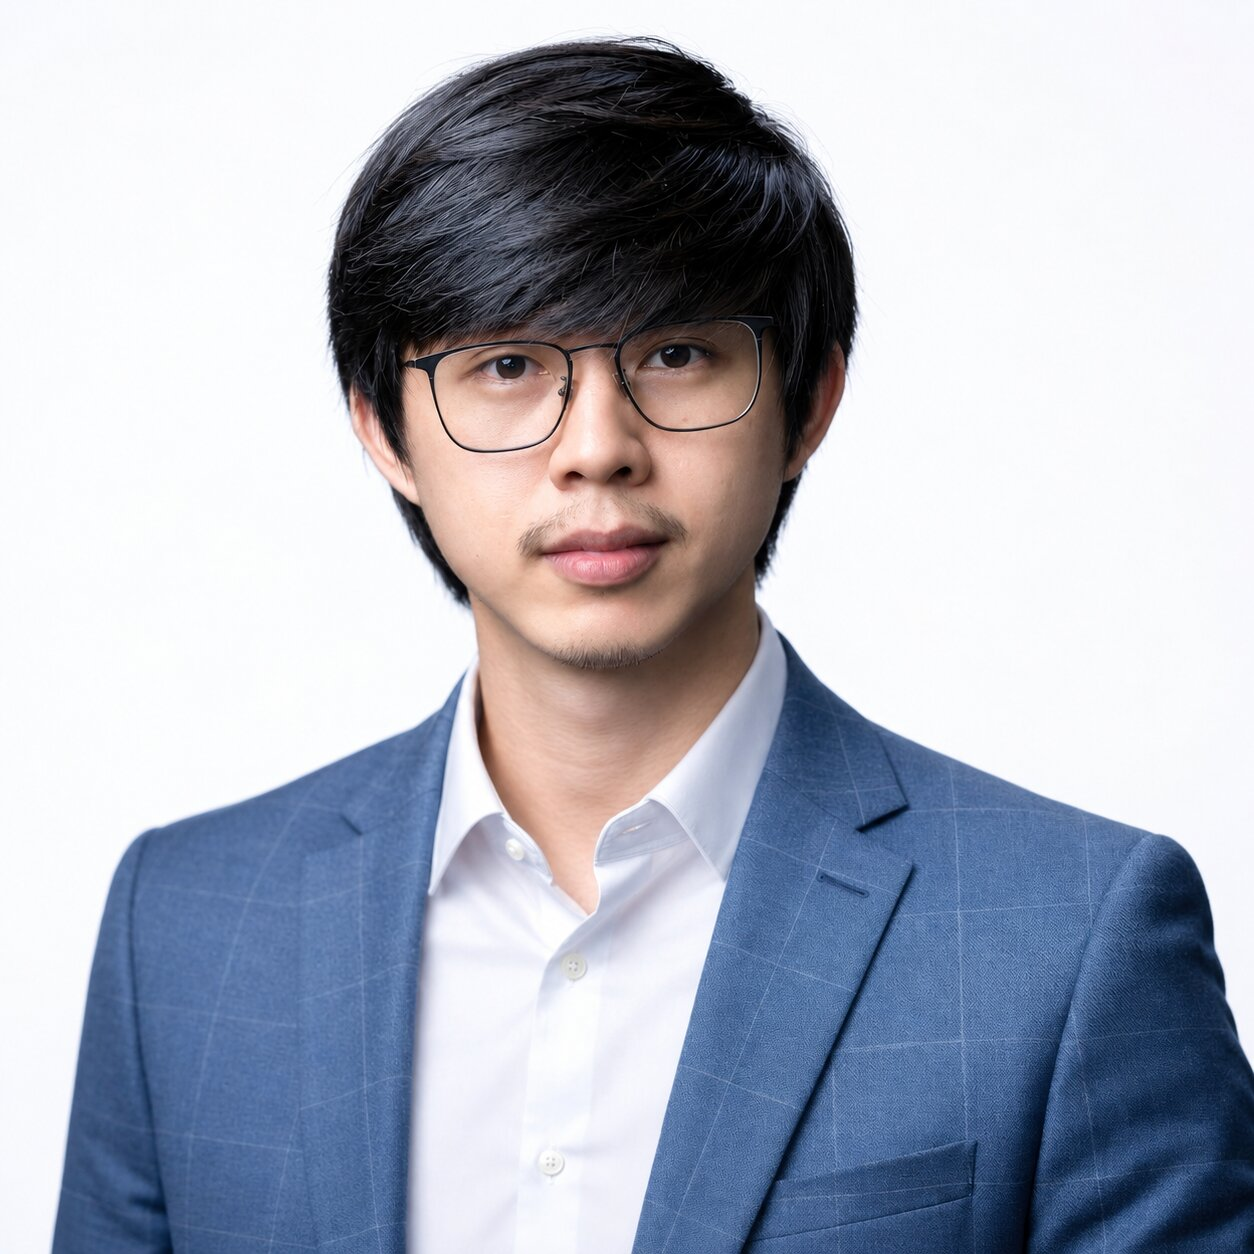
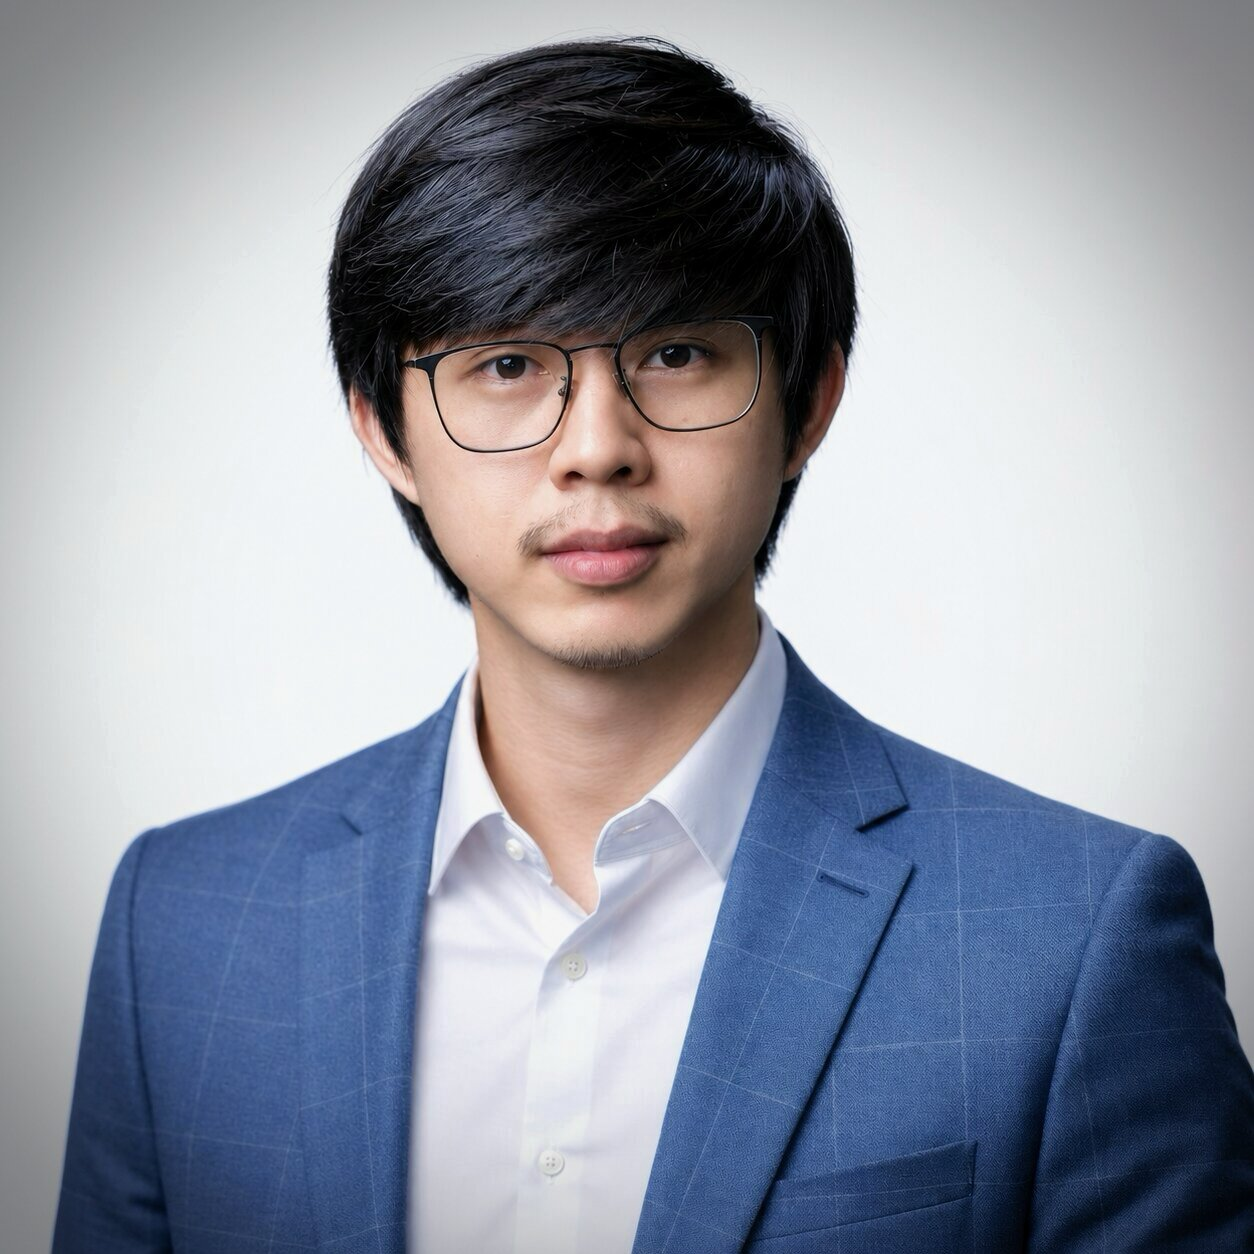
Add clinical AI interest and clean page headings

diff --git a/index.html b/index.html
@@ -11,7 +11,7 @@ description: Portfolio and research profile for Sovorn Chea.
     <p class="portfolio-kicker">AI systems builder / research-oriented engineer</p>
     <h1 id="portfolio-title">Sovorn Chea</h1>
     <p class="portfolio-lede">
-      Building and studying agentic AI systems, context engineering workflows, and applied machine-learning systems that need memory, reliability, and human oversight.
+      Building and studying agentic AI systems, clinical AI reliability, context engineering workflows, and applied machine-learning systems that need memory, reliability, and human oversight.
     </p>
     <p class="portfolio-note">
       M.E. in Computer Science and Technology, B.S. in Management of Information Systems, and founder of ChhlatBot, an AI workflow automation platform for Cambodia businesses.
@@ -50,6 +50,10 @@ description: Portfolio and research profile for Sovorn Chea.
     <article>
       <h3>Research-trained ML systems</h3>
       <p>IEEE-published computer-vision research, reproducible experiments, benchmarking, data preparation, and model evaluation.</p>
+    </article>
+    <article>
+      <h3>Clinical AI reliability</h3>
+      <p>Research interest in safe decision-support systems, competence-aware memory, deferral, and human oversight in high-stakes settings.</p>
     </article>
   </div>
 </section>

diff --git a/_tabs/research.md b/_tabs/research.md
@@ -8,8 +8,6 @@ description: Research interests and reading direction.
 
 <link rel="stylesheet" href="{{ '/assets/css/portfolio.css' | relative_url }}">
 
-# Research
-
 The research direction is system-building work in agentic AI: design useful architectures, implement them, evaluate them, and turn them into reusable methods or benchmarks.
 
 ## Focus Areas
@@ -30,6 +28,10 @@ The research direction is system-building work in agentic AI: design useful arch
   <article>
     <h3>AI automation</h3>
     <p>End-to-end LLM-powered workflows with human escalation, operational constraints, and measurable reliability.</p>
+  </article>
+  <article>
+    <h3>Clinical AI reliability</h3>
+    <p>Clinical decision-support systems, competence-aware memory, calibrated support, deferral, and human oversight in high-stakes settings.</p>
   </article>
 </div>
 
@@ -57,4 +59,4 @@ Research notes and paper reviews will be published through [Writing]({{ '/writin
 
 - Research collaboration around agent memory, context engineering, and AI automation.
 - Academic conversations in AI/ML, agentic AI, clinical AI reliability, and learning systems.
-- Applied research, AI systems, AI engineering, and forward-deployed AI roles.
+- Applied research, clinical AI reliability, AI systems, AI engineering, and forward-deployed AI roles.

diff --git a/_tabs/cv.md b/_tabs/cv.md
@@ -8,8 +8,6 @@ description: Academic and industry profile.
 
 <link rel="stylesheet" href="{{ '/assets/css/portfolio.css' | relative_url }}">
 
-# CV
-
 Compact web CV for academic, AI systems, and remote-work readers.
 
 ## Profile
@@ -68,6 +66,7 @@ Master's thesis and IEEE-published research on fast, lightweight automatic shipp
 - Agentic AI: agent loops, planning, tool use, and autonomous workflows.
 - Agentic memory: episodic, semantic, working, and decision memory.
 - Context engineering for LLMs and tool-using agents.
+- Clinical AI reliability and safe decision-support systems.
 - AI automation and human-in-the-loop workflow systems.
 - Applied ML systems and reproducible evaluation.
 
@@ -87,7 +86,7 @@ Master's thesis and IEEE-published research on fast, lightweight automatic shipp
 
 ## Open To
 
-Academic conversations, applied research roles, AI/ML engineering roles, forward-deployed AI engineering roles, and remote opportunities that align with agent systems or machine-learning infrastructure.
+Academic conversations, clinical AI reliability research, applied research roles, AI/ML engineering roles, forward-deployed AI engineering roles, and remote opportunities that align with agent systems or machine-learning infrastructure.
 
 ## Links
 

diff --git a/_tabs/contact.md b/_tabs/contact.md
@@ -8,8 +8,6 @@ description: Contact Sovorn Chea.
 
 <link rel="stylesheet" href="{{ '/assets/css/portfolio.css' | relative_url }}">
 
-# Contact
-
 For research, collaboration, hiring, or remote-work conversations:
 
 - Email: [[email redacted]](mailto:[email redacted])
@@ -18,4 +16,4 @@ For research, collaboration, hiring, or remote-work conversations:
 - ChhlatBot: [chhlatbot.com](https://chhlatbot.com)
 - X/Twitter: [sovornjg](https://twitter.com/sovornjg)
 
-Open to conversations around doctoral research supervision, AI systems research, applied AI engineering, forward-deployed AI work, and remote opportunities.
+Open to conversations around doctoral research supervision, clinical AI reliability, AI systems research, applied AI engineering, forward-deployed AI work, and remote opportunities.

diff --git a/_posts/2026-05-22-welcome-to-sovorn-docs.md b/_posts/2026-05-22-welcome-to-sovorn-docs.md
@@ -8,7 +8,7 @@ description: A place to document research notes, project logs, and work on AI ag
 
 ## Hello
 
-This research notebook and portfolio collects research notes, project logs, paper reviews, and technical reflections around agentic AI, context engineering, AI automation, and applied machine-learning systems.
+This research notebook and portfolio collects research notes, project logs, paper reviews, and technical reflections around agentic AI, clinical AI reliability, context engineering, AI automation, and applied machine-learning systems.
 
 ### About Me
 
@@ -16,6 +16,7 @@ This research notebook and portfolio collects research notes, project logs, pape
 
 - **Agentic AI** — autonomous agents, agent loops, planning, and tool use
 - **Agentic Memory** — episodic, semantic, working, and decision memory for AI agents
+- **Clinical AI Reliability** — safe decision support, deferral, and human oversight in high-stakes settings
 - **Context Engineering** — structuring, compressing, and managing context for LLMs and agents
 - **AI Automation** — end-to-end LLM-powered workflows with human oversight
 

diff --git a/_tabs/about.md b/_tabs/about.md
@@ -27,7 +27,7 @@ Key interests:
 - Episodic, semantic, working, and decision memory for AI agents.
 - Context selection, compression, retrieval, and state representation.
 - Human-in-the-loop automation for messy real-world workflows.
-- Safe self-improvement and deferral in clinical or high-stakes decision support.
+- Clinical AI reliability, safe self-improvement, and deferral in high-stakes decision support.
 
 ## Background
 

diff --git a/_tabs/projects.md b/_tabs/projects.md
@@ -8,8 +8,6 @@ description: Selected project areas and technical work.
 
 <link rel="stylesheet" href="{{ '/assets/css/portfolio.css' | relative_url }}">
 
-# Projects
-
 Selected work is grouped by what it proves: production-minded AI systems, research training, and current agent-memory direction.
 
 <div class="portfolio-list">